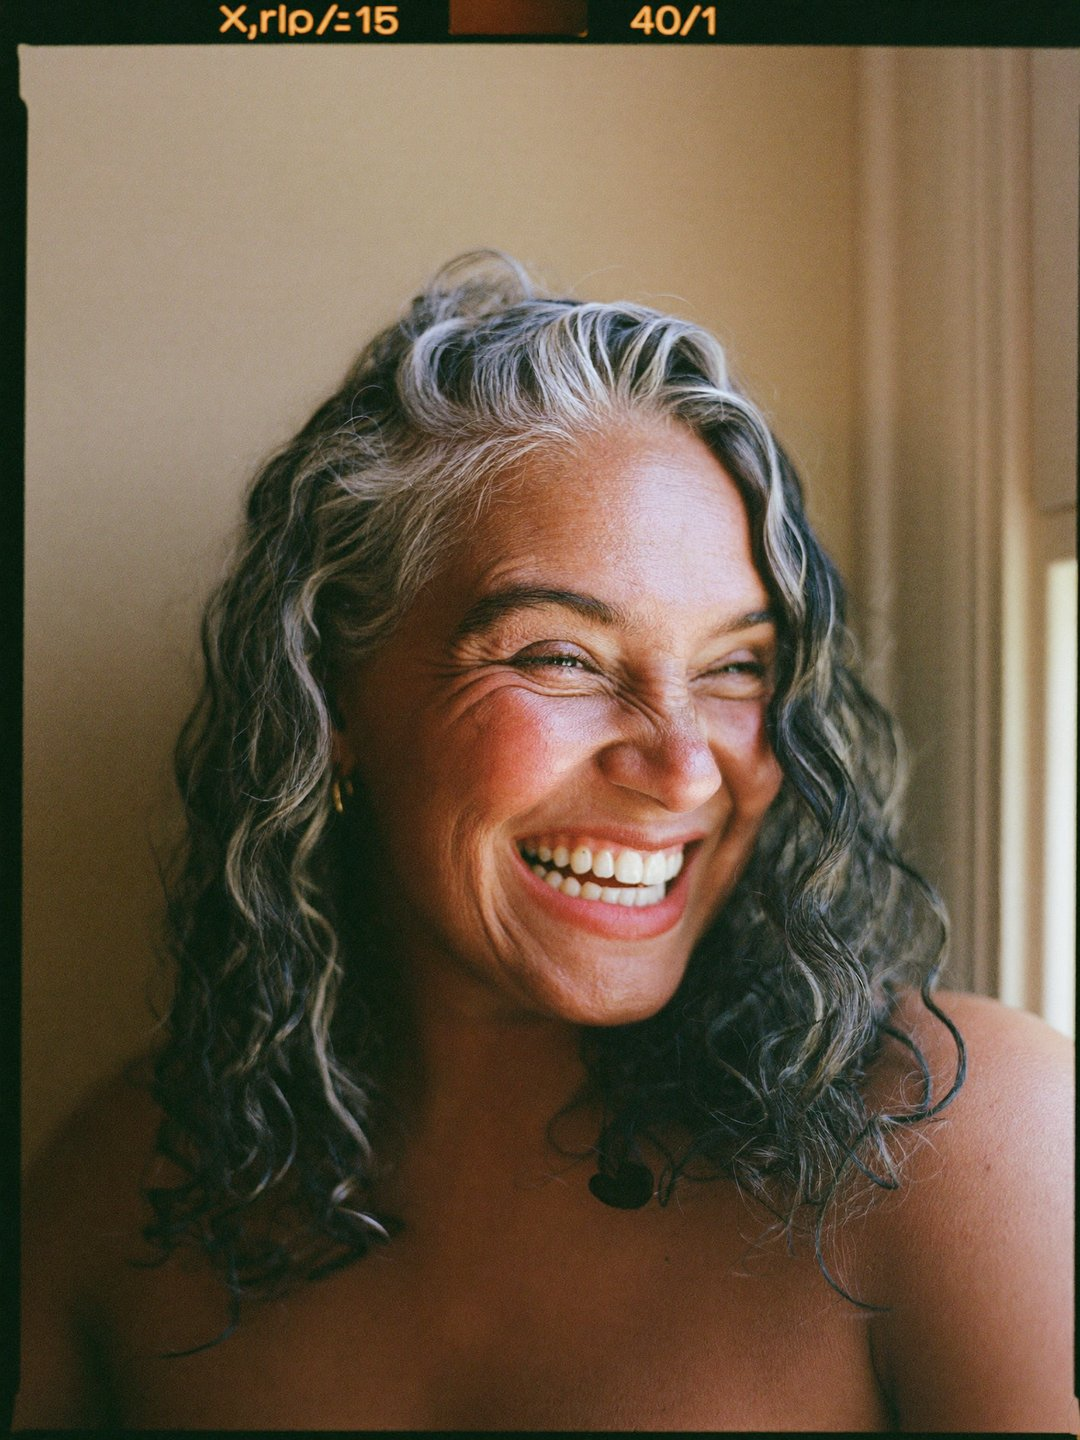
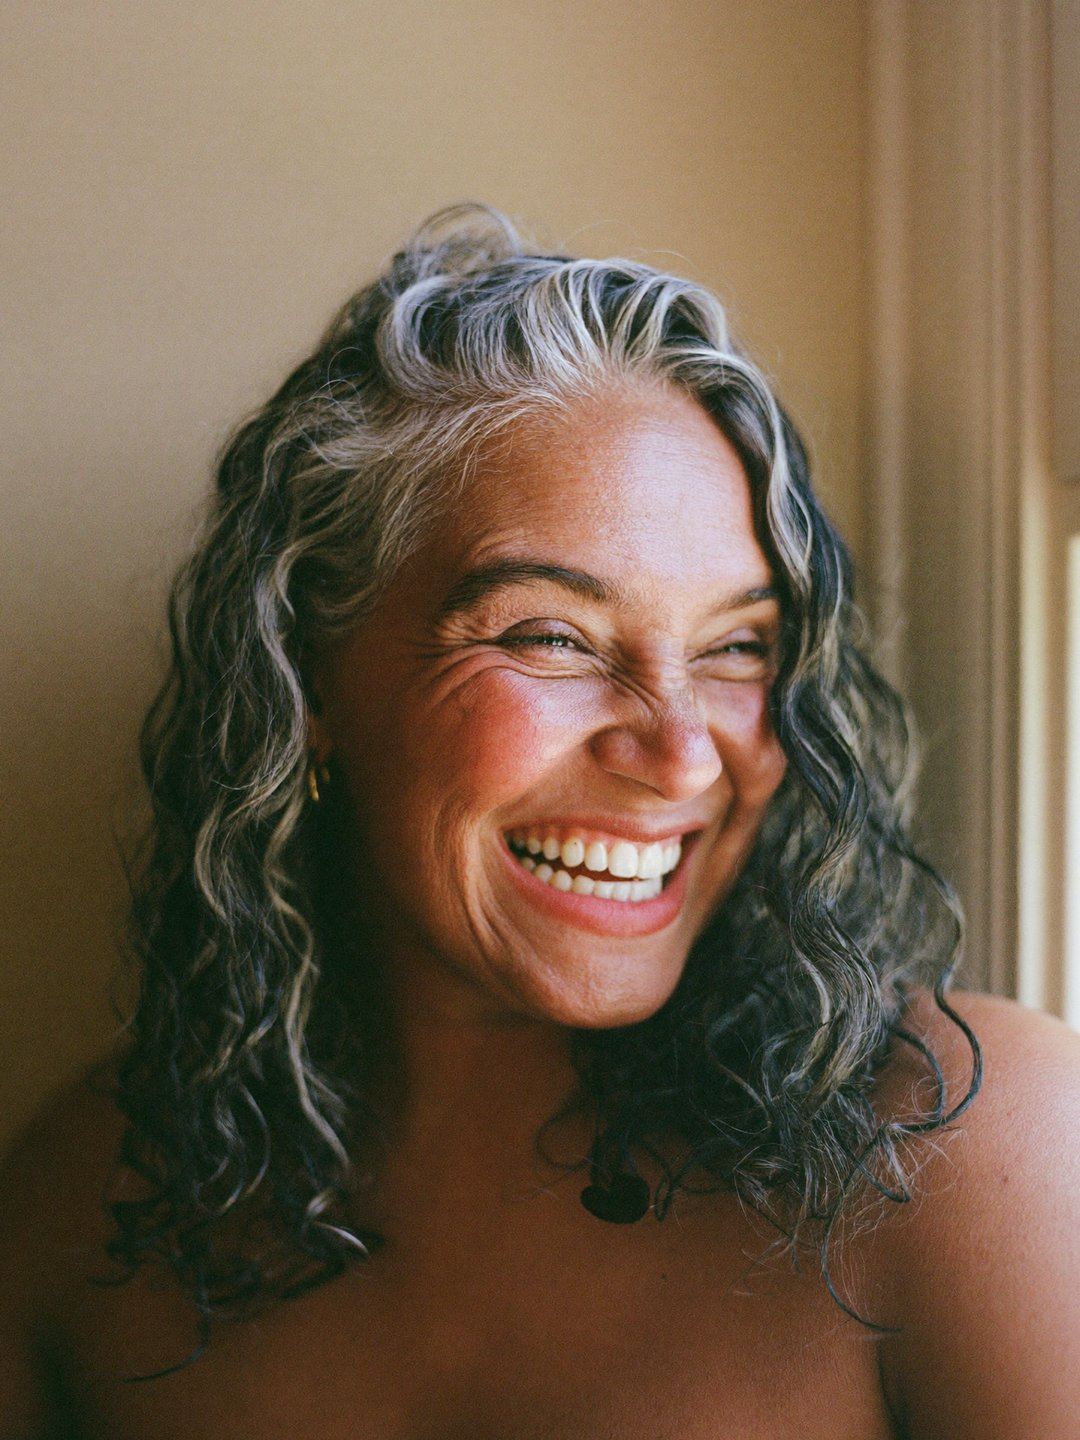
Retratos sem a moldura de filme; o processamento tira molduras escuras sozinho
Claude-Session: https://claude.ai/code/session_01H9RPMzqkaAEQeoA7jFUpe3

diff --git a/media/ferramentas/processar.py b/media/ferramentas/processar.py
@@ -23,12 +23,32 @@ def achar_slot(nome):
         if n == normal(Path(v["ficheiro"]).stem) or n.startswith(k + "-"): return k
     return None
 
+def aparar_bordas(im, limite=55, maximo=0.12):
+    """Tira molduras escuras (ex.: bordas de "filme" que a IA às vezes desenha, com números)."""
+    g = im.convert("L")
+    w, h = g.size
+    def escura(caixa):
+        reg = g.crop(caixa).resize((1, 1), 0)
+        return reg.getpixel((0, 0)) < limite
+    t = b = l = r = 0
+    passo_v, passo_h = max(1, h // 400), max(1, w // 400)
+    while t < h * maximo and escura((0, t, w, t + passo_v)): t += passo_v
+    while b < h * maximo and escura((0, h - b - passo_v, w, h - b)): b += passo_v
+    while l < w * maximo and escura((l, 0, l + passo_h, h)): l += passo_h
+    while r < w * maximo and escura((w - r - passo_h, 0, w - r, h)): r += passo_h
+    if t or b or l or r:
+        m = 0.012  # margem extra para levar os restos da moldura
+        t, b = t + int(h * m) if t else 0, b + int(h * m) if b else 0
+        l, r = l + int(w * m) if l else 0, r + int(w * m) if r else 0
+        im = im.crop((l, t, w - r, h - b))
+    return im
+
 def imagem(orig, slot):
     from PIL import Image, ImageOps
     try:
         import pillow_heif; pillow_heif.register_heif_opener()
     except Exception: pass
-    im = ImageOps.exif_transpose(Image.open(orig)).convert("RGB")
+    im = aparar_bordas(ImageOps.exif_transpose(Image.open(orig)).convert("RGB"))
     im = ImageOps.fit(im, (slot["largura"], slot["altura"]), Image.LANCZOS, centering=tuple(slot.get("foco", [0.5, 0.5])))
     destino = ASSETS / slot["ficheiro"]
     q = 85
